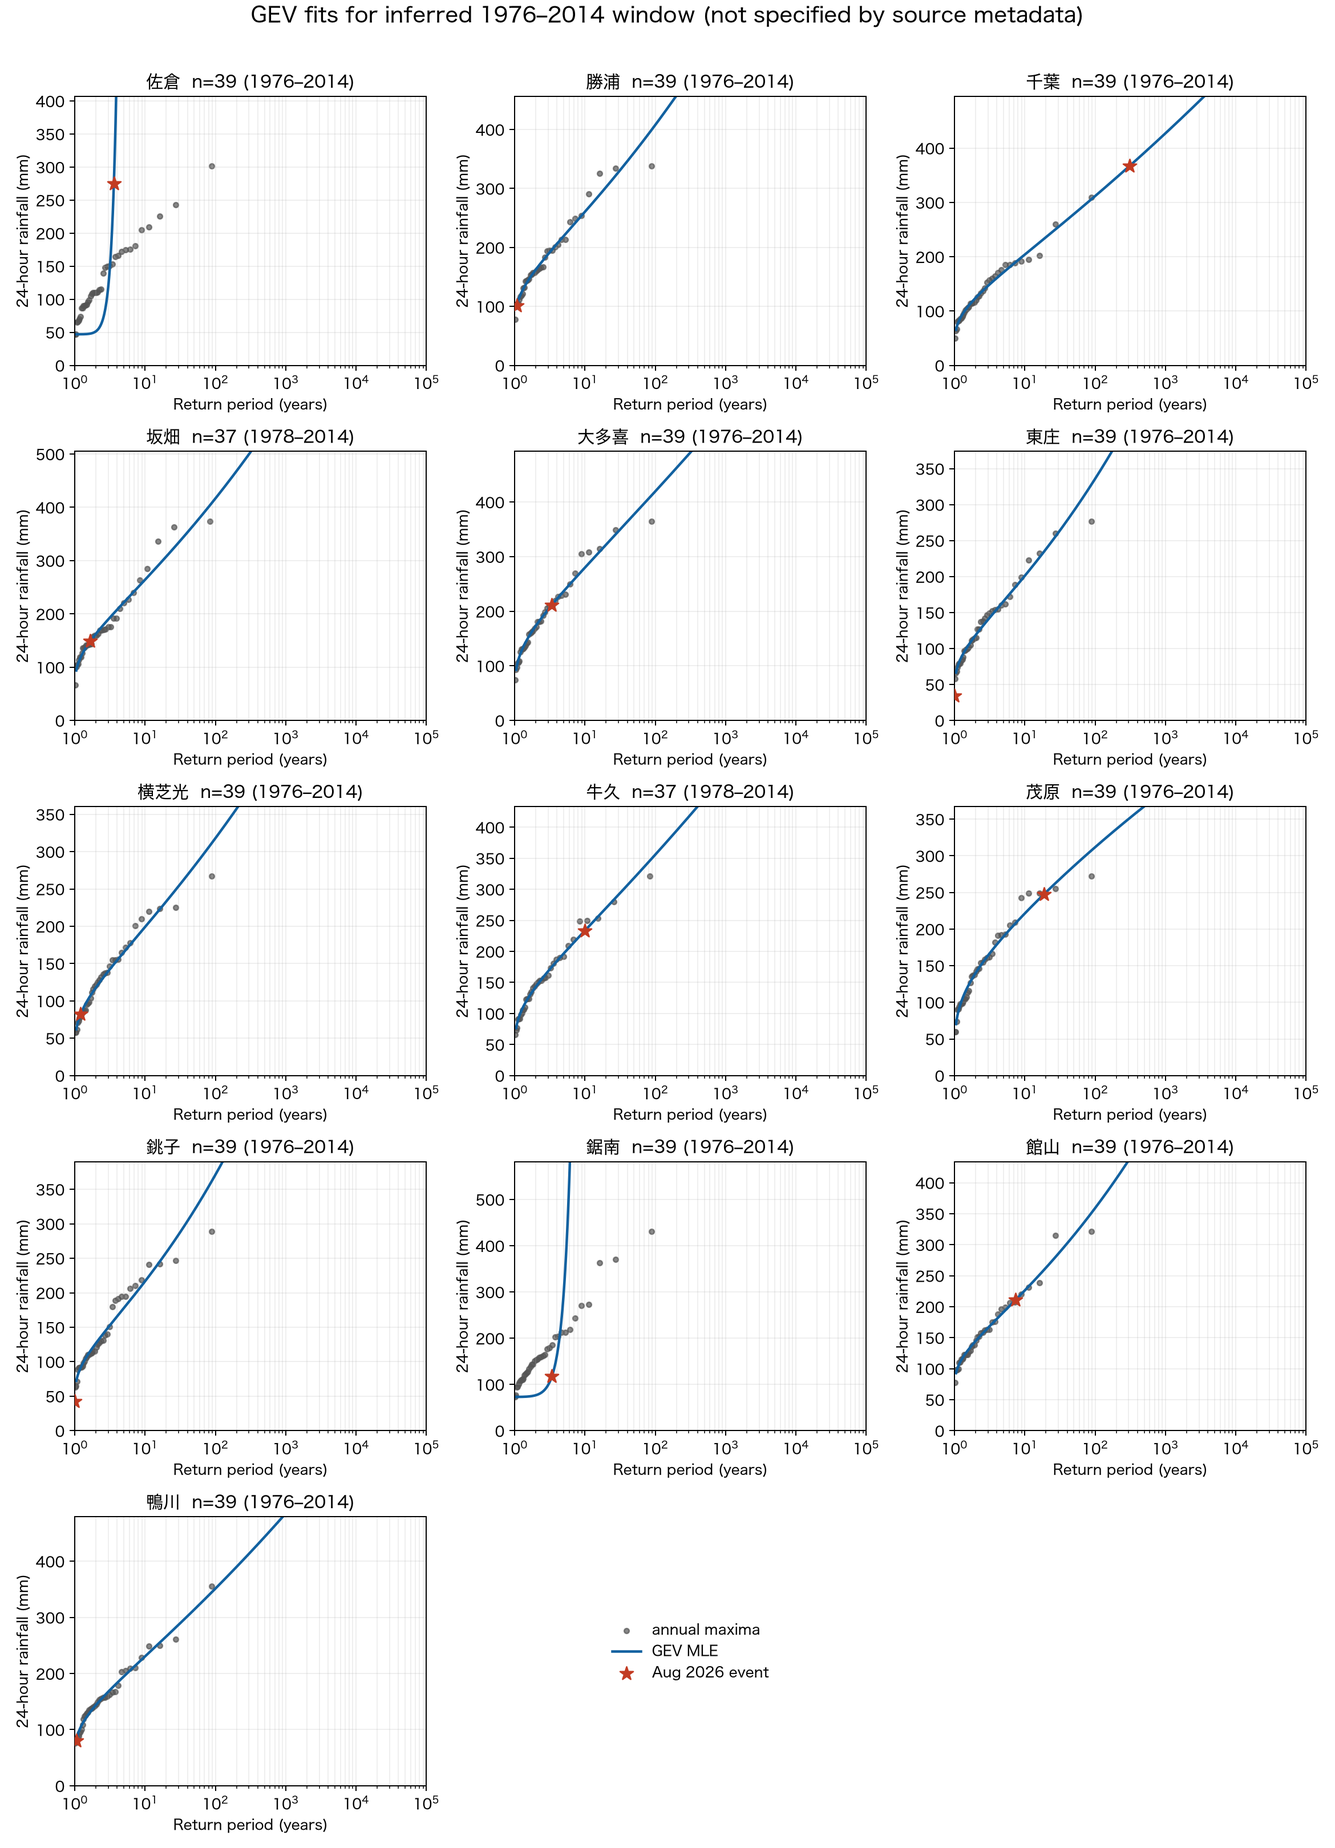
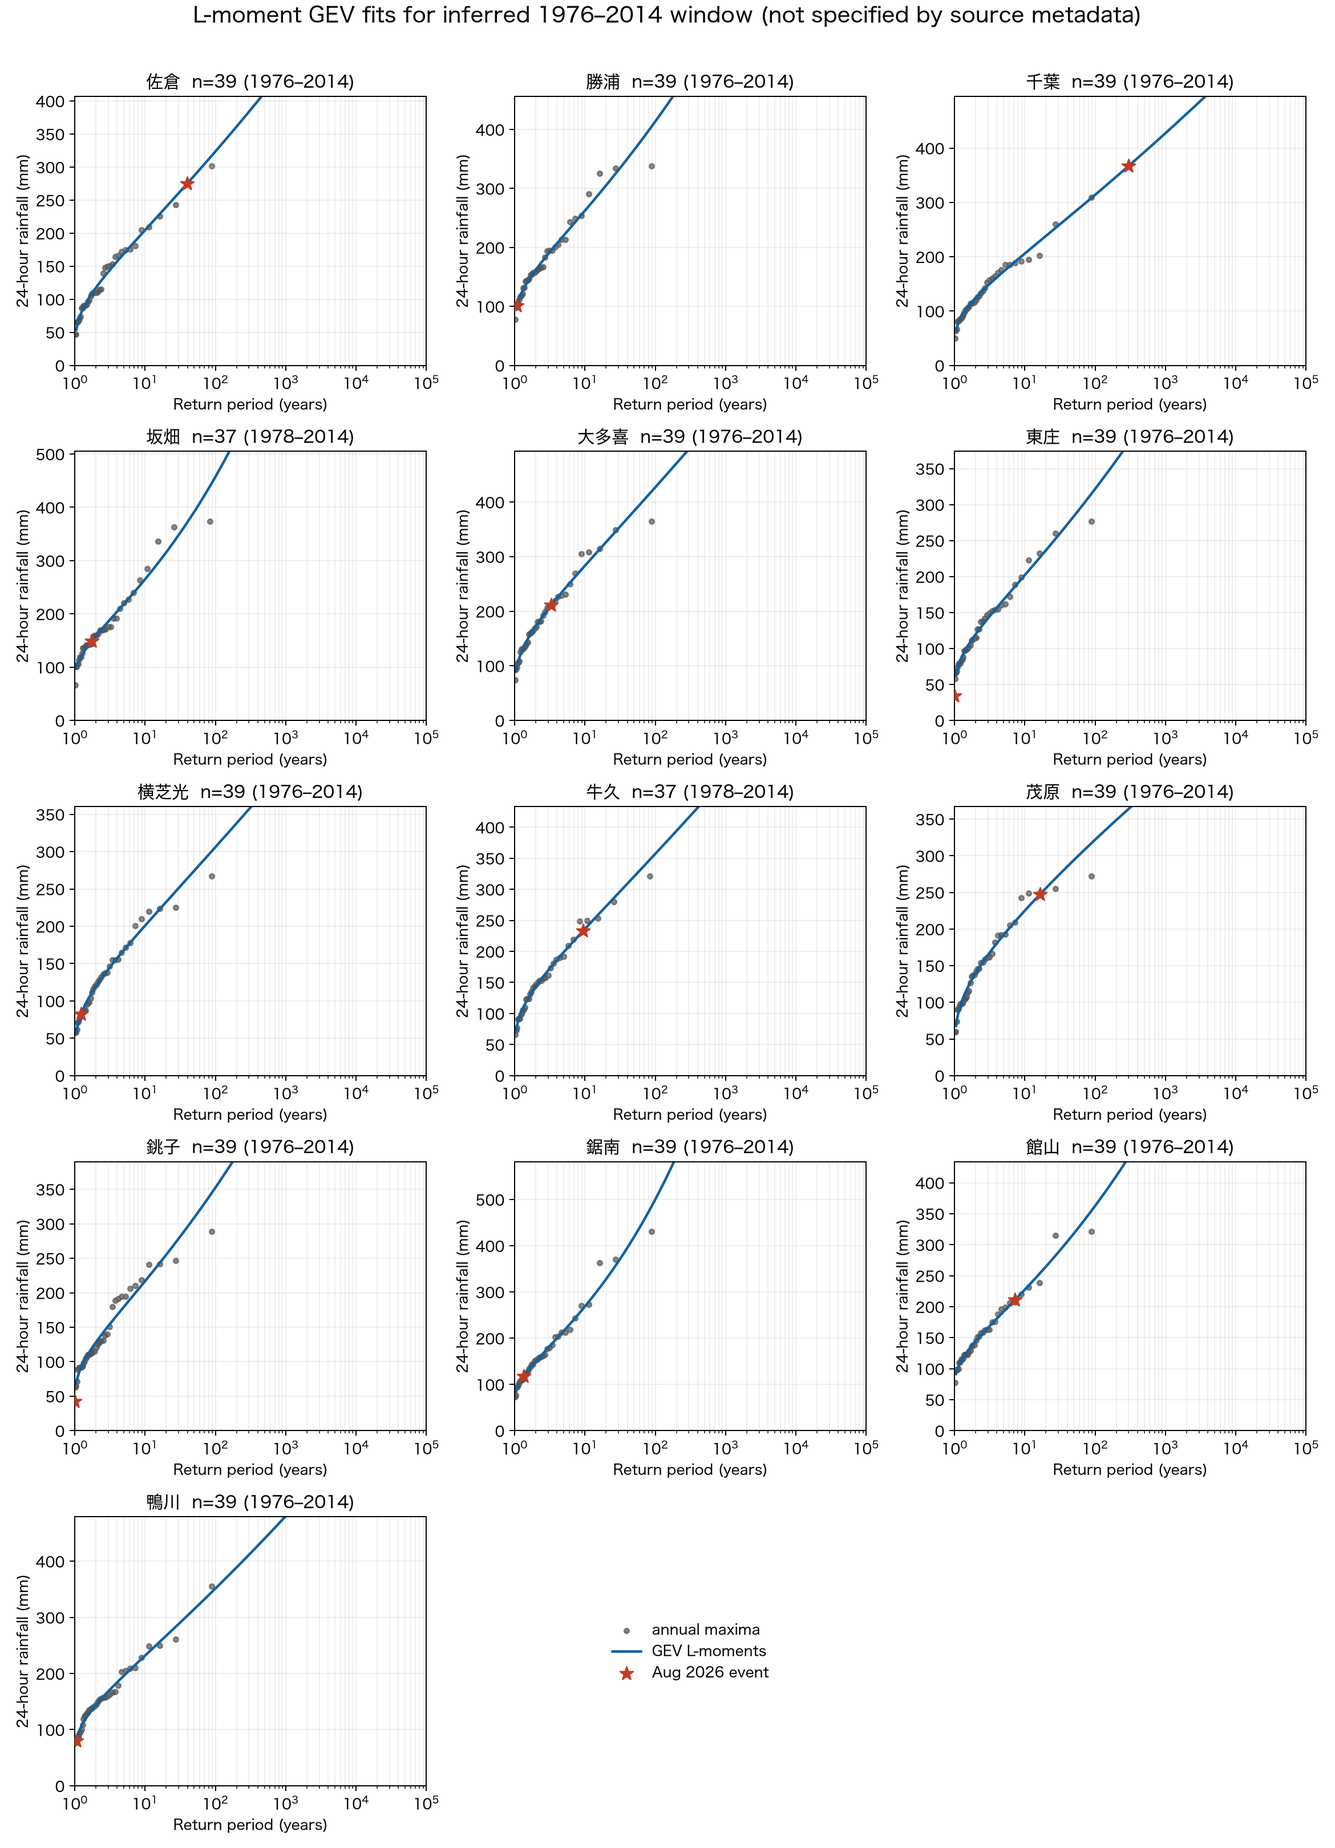
Use L-moments for GEV estimation

diff --git a/src/chiba_heavy_rain/analysis.py b/src/chiba_heavy_rain/analysis.py
@@ -9,7 +9,6 @@ from pathlib import Path
 import matplotlib.pyplot as plt
 import numpy as np
 import pandas as pd
-from scipy.stats import genextreme
 
 from .extremes import (
     bootstrap_return_period,
@@ -85,7 +84,7 @@ def _plot_return_levels(
     series: dict[str, pd.DataFrame],
     results: pd.DataFrame,
     output: Path,
-    title: str = "Observed annual maxima and stationary GEV fits",
+    title: str = "Observed annual maxima and stationary GEV L-moment fits",
 ) -> None:
     eligible = results.loc[results["eligible"]].sort_values("station")
     ncols = 3
@@ -100,7 +99,13 @@ def _plot_return_levels(
         ranks = np.arange(1, len(ordered) + 1)
         empirical_period = (len(ordered) + 0.12) / (len(ordered) - ranks + 0.44)
         ax.scatter(empirical_period, ordered, s=12, alpha=0.7, color="#555555", label="annual maxima")
-        ax.plot(periods, return_level(periods, fit), color="#1261a0", lw=1.8, label="GEV MLE")
+        ax.plot(
+            periods,
+            return_level(periods, fit),
+            color="#1261a0",
+            lw=1.8,
+            label="GEV L-moments",
+        )
         ax.scatter(
             [float(row["return_period_years"])],
             [float(row["event_24h_mm"])],
@@ -256,9 +261,6 @@ def run(raw_dir: Path, results_dir: Path, refresh: bool, bootstrap_samples: int)
                 samples=bootstrap_samples,
                 seed=20260813 + index,
             )
-            log_likelihood = float(
-                np.sum(genextreme.logpdf(values, fit.scipy_shape, loc=fit.location, scale=fit.scale))
-            )
             base.update(
                 {
                     "historical_max_mm": float(np.max(values)),
@@ -266,7 +268,6 @@ def run(raw_dir: Path, results_dir: Path, refresh: bool, bootstrap_samples: int)
                     "shape_xi": fit.shape_xi,
                     "location": fit.location,
                     "scale": fit.scale,
-                    "aic": 6 - 2 * log_likelihood,
                     "return_period_years": period,
                     "return_period_including_2026": return_period(
                         float(event["event_24h_mm"]), full_fit
@@ -290,7 +291,7 @@ def run(raw_dir: Path, results_dir: Path, refresh: bool, bootstrap_samples: int)
         period_series,
         period_results,
         results_dir / "historical_1976_2014_return_levels.png",
-        title="GEV fits for inferred 1976–2014 window (not specified by source metadata)",
+        title="L-moment GEV fits for inferred 1976–2014 window (not specified by source metadata)",
     )
     _plot_period_comparison(
         results, period_results, results_dir / "historical_period_comparison.png"
@@ -321,7 +322,7 @@ def render_existing(results_dir: Path, bootstrap_samples: int) -> pd.DataFrame:
         period_series,
         period_results,
         results_dir / "historical_1976_2014_return_levels.png",
-        title="GEV fits for inferred 1976–2014 window (not specified by source metadata)",
+        title="L-moment GEV fits for inferred 1976–2014 window (not specified by source metadata)",
     )
     _plot_period_comparison(
         results, period_results, results_dir / "historical_period_comparison.png"
@@ -382,7 +383,7 @@ def _write_report(
 
 ## 結論
 
-気象庁の千葉県内地上観測のうち、JMAの統計切断表示後の同一系列が40年以上あり、利用可能な年最大24時間降水量を40年分以上持つ地点を対象に、定常GEV分布を最尤推定した。2026年8月13～15日の観測最大24時間雨量を、事象から独立な2025年までの分布に照らした主解析では、最大の点推定は **{max_row['station']}の{_format_period(float(max_row['return_period_years']))}** だった。1万年を超えた地点は **{extreme_count}地点** である。
+気象庁の千葉県内地上観測のうち、JMAの統計切断表示後の同一系列が40年以上あり、利用可能な年最大24時間降水量を40年分以上持つ地点を対象に、標本Lモーメント（PWM）で定常GEV分布を推定した。2026年8月13～15日の観測最大24時間雨量を、事象から独立な2025年までの分布に照らした主解析では、最大の点推定は **{max_row['station']}の{_format_period(float(max_row['return_period_years']))}** だった。1万年を超えた地点は **{extreme_count}地点** である。
 
 ただし、記事の574.2 mmは千葉市緑区～市原市東部の「解析雨量」（格子値）であり、地上観測所の値ではない。今回の地上観測解析は、その574.2 mm自体の確率年を直接検証するものではなく、同じ豪雨を既存観測所で捉えた場合の局地ごとの頻度を示す。両者の空間代表性の違いを無視した一対一比較はできない。
 
@@ -422,7 +423,7 @@ def _write_report(
 
 - 出典は気象庁「過去の気象データ検索」の年ごとの値（詳細・N時間降水量）と2026年8月の日ごとの値。取得URLとSHA-256は `data/raw/manifest.json` に保存した。
 - 気象庁HTMLの `data_2t_*` 表示を統計切断として扱い、その後の最新系列が40年以上かつ利用可能な年最大値40個以上の地点を適格とした。資料不足値 `]` は除外したが、それ自体は統計切断とはみなしていない。依頼に従い測器・観測方法の変更補正は行っていない。
-- GEVの形状母数は通常の記法 ξ（SciPyの `genextreme` の形状母数とは符号が逆）。最尤推定を用いた。
+- GEV母数は標本の確率重み付きモーメントからL1、L2、L-skewnessを計算し、理論L-skewnessを数値的に逆算して推定した。形状母数は通常の記法 ξ（SciPyの `genextreme` の形状母数とは符号が逆）。
 - 主解析は今回事象を分布推定から除外し、推定対象と評価対象を分離した。感度分析では今回値を1年追加した。
 - 再現期間は `T = 1 / (1 - F(x))`。これは「T年ごとに規則的に起きる」の意味ではなく、定常性を仮定した年超過確率の逆数である。
 

diff --git a/src/chiba_heavy_rain/extremes.py b/src/chiba_heavy_rain/extremes.py
@@ -5,6 +5,8 @@ from __future__ import annotations
 from dataclasses import dataclass
 
 import numpy as np
+from scipy.optimize import brentq
+from scipy.special import gamma
 from scipy.stats import genextreme
 
 
@@ -21,13 +23,56 @@ class GEVFit:
 
 
 def fit_gev(values: np.ndarray) -> GEVFit:
+    """Estimate stationary GEV parameters with sample L-moments.
+
+    Probability-weighted moments are converted to L1, L2, and L-skewness.
+    The GEV shape is obtained by numerically inverting the theoretical
+    L-skewness relation. This avoids the pathological unconstrained MLE shapes
+    that can occur in short annual-maximum records.
+    """
     x = np.asarray(values, dtype=float)
     if x.ndim != 1 or len(x) < 3 or not np.all(np.isfinite(x)):
         raise ValueError("GEV fit requires at least three finite one-dimensional values")
-    c, loc, scale = genextreme.fit(x)
-    if not np.isfinite(scale) or scale <= 0:
-        raise RuntimeError("Invalid GEV scale estimate")
-    return GEVFit(shape_xi=float(-c), location=float(loc), scale=float(scale))
+    ordered = np.sort(x)
+    n = len(ordered)
+    index = np.arange(n, dtype=float)
+    b0 = float(np.mean(ordered))
+    b1 = float(np.sum((index / (n - 1)) * ordered) / n)
+    b2 = float(
+        np.sum((index * (index - 1) / ((n - 1) * (n - 2))) * ordered) / n
+    )
+    l1 = b0
+    l2 = 2.0 * b1 - b0
+    l3 = 6.0 * b2 - 6.0 * b1 + b0
+    if not np.isfinite(l2) or l2 <= 0:
+        raise RuntimeError("GEV L-moment fit requires positive L2")
+    tau3 = l3 / l2
+    if not -1.0 < tau3 < 1.0:
+        raise RuntimeError(f"GEV L-skewness outside (-1, 1): {tau3}")
+
+    def theoretical_tau3(xi: float) -> float:
+        if abs(xi) < 1e-8:
+            return 2.0 * np.log(3.0) / np.log(2.0) - 3.0
+        numerator = np.expm1(xi * np.log(3.0))
+        denominator = np.expm1(xi * np.log(2.0))
+        return 2.0 * numerator / denominator - 3.0
+
+    shape_xi = float(brentq(lambda xi: theoretical_tau3(xi) - tau3, -10.0, 0.999999))
+    if abs(shape_xi) < 1e-7:
+        scale = float(l2 / np.log(2.0))
+        location = float(l1 - np.euler_gamma * scale)
+        shape_xi = 0.0
+    else:
+        gamma_term = float(gamma(1.0 - shape_xi))
+        scale = float(
+            l2
+            * shape_xi
+            / (gamma_term * np.expm1(shape_xi * np.log(2.0)))
+        )
+        location = float(l1 - scale * (gamma_term - 1.0) / shape_xi)
+    if not np.isfinite(scale) or scale <= 0 or not np.isfinite(location):
+        raise RuntimeError("Invalid GEV L-moment parameter estimate")
+    return GEVFit(shape_xi=shape_xi, location=location, scale=scale)
 
 
 def return_period(value: float, fit: GEVFit) -> float:
@@ -87,4 +132,3 @@ def bootstrap_return_period(
         "bootstrap_infinite": infinite,
         "bootstrap_failures": failures,
     }
-

diff --git a/tests/test_extremes.py b/tests/test_extremes.py
@@ -21,12 +21,13 @@ def test_scipy_shape_sign_conversion() -> None:
     assert np.isclose(return_level(np.array([100.0]), fit)[0], expected)
 
 
-def test_fit_gev_returns_valid_scale() -> None:
+def test_l_moment_fit_recovers_synthetic_gev_parameters() -> None:
     rng = np.random.default_rng(4)
-    values = genextreme.rvs(-0.1, loc=120, scale=25, size=80, random_state=rng)
+    values = genextreme.rvs(-0.1, loc=120, scale=25, size=100_000, random_state=rng)
     fit = fit_gev(values)
-    assert fit.scale > 0
-    assert 80 < fit.location < 160
+    assert np.isclose(fit.shape_xi, 0.1, atol=0.015)
+    assert np.isclose(fit.location, 120, atol=0.5)
+    assert np.isclose(fit.scale, 25, atol=0.5)
 
 
 def test_centered_1995_period_is_1976_through_2014_without_quality_filter() -> None:

diff --git a/results/report.md b/results/report.md
@@ -2,7 +2,7 @@
 
 ## 結論
 
-気象庁の千葉県内地上観測のうち、JMAの統計切断表示後の同一系列が40年以上あり、利用可能な年最大24時間降水量を40年分以上持つ地点を対象に、定常GEV分布を最尤推定した。2026年8月13～15日の観測最大24時間雨量を、事象から独立な2025年までの分布に照らした主解析では、最大の点推定は **千葉の431年** だった。1万年を超えた地点は **0地点** である。
+気象庁の千葉県内地上観測のうち、JMAの統計切断表示後の同一系列が40年以上あり、利用可能な年最大24時間降水量を40年分以上持つ地点を対象に、標本Lモーメント（PWM）で定常GEV分布を推定した。2026年8月13～15日の観測最大24時間雨量を、事象から独立な2025年までの分布に照らした主解析では、最大の点推定は **千葉の446年** だった。1万年を超えた地点は **0地点** である。
 
 ただし、記事の574.2 mmは千葉市緑区～市原市東部の「解析雨量」（格子値）であり、地上観測所の値ではない。今回の地上観測解析は、その574.2 mm自体の確率年を直接検証するものではなく、同じ豪雨を既存観測所で捉えた場合の局地ごとの頻度を示す。両者の空間代表性の違いを無視した一対一比較はできない。
 
@@ -12,19 +12,19 @@
 
 | 地点 | 学習期間 | 今回24h (mm) | 既往最大 (mm) | 確率年 | 95%ブートストラップ区間 | 2026含む |
 |---|---:|---:|---:|---:|---:|---:|
-| 千葉 | 1976–2025 (48年) | 367.0 | 309.0 | 431年 | 3.05年 – 上限なし | 119年 |
-| 佐倉 | 1976–2025 (47年) | 274.5 | 301.5 | 30.8年 | 2.39年 – 178年 | 25.2年 |
-| 茂原 | 1976–2025 (45年) | 247.5 | 392.0 | 12.5年 | 2.72年 – 39.7年 | 11.6年 |
-| 牛久 | 1981–2025 (42年) | 233.0 | 321.0 | 8.13年 | 2.22年 – 16.9年 | 7.83年 |
-| 館山 | 1976–2025 (48年) | 211.0 | 321.5 | 7.69年 | 2.64年 – 18.0年 | 7.42年 |
-| 大多喜 | 1977–2025 (45年) | 211.5 | 365.0 | 3.12年 | 1.99年 – 5.09年 | 3.08年 |
-| 坂畑 | 1979–2025 (43年) | 149.0 | 374.0 | 1.76年 | 1.44年 – 3.83年 | 1.77年 |
-| 鋸南 | 1976–2025 (42年) | 117.5 | 431.0 | 1.43年 | 1.23年 – 3.42年 | 1.44年 |
-| 横芝光 | 1976–2025 (43年) | 82.5 | 274.5 | 1.23年 | 1.11年 – 2.61年 | 1.24年 |
-| 勝浦 | 1976–2025 (49年) | 101.5 | 338.0 | 1.08年 | 1.00年 – 3.00年 | 1.08年 |
-| 鴨川 | 1977–2025 (47年) | 80.5 | 355.0 | 1.04年 | 1.01年 – 1.75年 | 1.04年 |
-| 銚子 | 1976–2025 (50年) | 42.5 | 289.0 | 1.00年 | 1.00年 – 1.03年 | 1.01年 |
-| 東庄 | 1979–2025 (42年) | 34.0 | 277.0 | 1.00年 | 1.00年 – 1.00年 | 1.00年 |
+| 千葉 | 1976–2025 (48年) | 367.0 | 309.0 | 446年 | 77.9年 – 上限なし | 115年 |
+| 佐倉 | 1976–2025 (47年) | 274.5 | 301.5 | 33.0年 | 17.7年 – 141年 | 27.5年 |
+| 茂原 | 1976–2025 (45年) | 247.5 | 392.0 | 13.5年 | 7.62年 – 46.3年 | 12.6年 |
+| 牛久 | 1981–2025 (42年) | 233.0 | 321.0 | 7.87年 | 4.72年 – 17.4年 | 7.50年 |
+| 館山 | 1976–2025 (48年) | 211.0 | 321.5 | 7.50年 | 4.68年 – 16.4年 | 7.20年 |
+| 大多喜 | 1977–2025 (45年) | 211.5 | 365.0 | 3.07年 | 2.14年 – 4.82年 | 3.04年 |
+| 坂畑 | 1979–2025 (43年) | 149.0 | 374.0 | 1.71年 | 1.39年 – 2.25年 | 1.72年 |
+| 鋸南 | 1976–2025 (42年) | 117.5 | 431.0 | 1.44年 | 1.23年 – 1.72年 | 1.45年 |
+| 横芝光 | 1976–2025 (43年) | 82.5 | 274.5 | 1.24年 | 1.12年 – 1.41年 | 1.25年 |
+| 勝浦 | 1976–2025 (49年) | 101.5 | 338.0 | 1.09年 | 1.02年 – 1.16年 | 1.09年 |
+| 鴨川 | 1977–2025 (47年) | 80.5 | 355.0 | 1.04年 | 1.00年 – 1.10年 | 1.05年 |
+| 銚子 | 1976–2025 (50年) | 42.5 | 289.0 | 1.00年 | 1.00年 – 1.02年 | 1.01年 |
+| 東庄 | 1979–2025 (42年) | 34.0 | 277.0 | 1.00年 | 1.00年 – 1.01年 | 1.00年 |
 
 対象外：香取（連続26年）、我孫子（連続15年）、成田（連続22年）、木更津（連続18年）、船橋（連続26年）
 
@@ -38,20 +38,20 @@
 
 元データdescriptionを確認すると、NASA NEX-GDDP-CMIP6はhistoricalが1950～2014年、SSPが2015～2100年である。NIES2020で「39年」と明記されるのは極値統計の標本期間ではなく、CDFDMバイアス補正の基準期間 **1980～2018年** で、その内訳はhistorical runの1980～2014年とSSP585 runの2015～2018年である。この1980～2018年を記事の「1995年中心の過去気候期間」と読み替える根拠はないため、本図には採用していない。
 
-上記の推定期間に固定し、地点は主解析の13地点から再選別せず、数値が掲載されている年最大24時間雨量を品質記号 `]` も含めて使用した。したがって牛久・坂畑は観測掲載開始の関係で37値、その他は最大39値である。この期間だけで推定した最大の点推定は **千葉の308年** だった。
+上記の推定期間に固定し、地点は主解析の13地点から再選別せず、数値が掲載されている年最大24時間雨量を品質記号 `]` も含めて使用した。したがって牛久・坂畑は観測掲載開始の関係で37値、その他は最大39値である。この期間だけで推定した最大の点推定は **千葉の299年** だった。
 
 | 地点 | 使用期間 | 年最大値数 | 今回24h (mm) | 期間内最大 (mm) | 確率年 |
 |---|---:|---:|---:|---:|---:|
-| 千葉 | 1976–2014 | 39 | 367.0 | 309.0 | 308年 |
-| 茂原 | 1976–2014 | 39 | 247.5 | 272.0 | 18.7年 |
-| 牛久 | 1978–2014 | 37 | 233.0 | 321.0 | 9.89年 |
-| 館山 | 1976–2014 | 39 | 211.0 | 321.5 | 7.40年 |
-| 佐倉 | 1976–2014 | 39 | 274.5 | 301.5 | 3.59年 |
-| 鋸南 | 1976–2014 | 39 | 117.5 | 431.0 | 3.39年 |
-| 大多喜 | 1976–2014 | 39 | 211.5 | 365.0 | 3.38年 |
-| 坂畑 | 1978–2014 | 37 | 149.0 | 374.0 | 1.67年 |
-| 横芝光 | 1976–2014 | 39 | 82.5 | 267.0 | 1.21年 |
-| 勝浦 | 1976–2014 | 39 | 101.5 | 338.0 | 1.07年 |
+| 千葉 | 1976–2014 | 39 | 367.0 | 309.0 | 299年 |
+| 佐倉 | 1976–2014 | 39 | 274.5 | 301.5 | 39.4年 |
+| 茂原 | 1976–2014 | 39 | 247.5 | 272.0 | 16.5年 |
+| 牛久 | 1978–2014 | 37 | 233.0 | 321.0 | 9.40年 |
+| 館山 | 1976–2014 | 39 | 211.0 | 321.5 | 7.26年 |
+| 大多喜 | 1976–2014 | 39 | 211.5 | 365.0 | 3.32年 |
+| 坂畑 | 1978–2014 | 37 | 149.0 | 374.0 | 1.73年 |
+| 鋸南 | 1976–2014 | 39 | 117.5 | 431.0 | 1.35年 |
+| 横芝光 | 1976–2014 | 39 | 82.5 | 267.0 | 1.23年 |
+| 勝浦 | 1976–2014 | 39 | 101.5 | 338.0 | 1.08年 |
 | 鴨川 | 1976–2014 | 39 | 80.5 | 355.0 | 1.05年 |
 | 銚子 | 1976–2014 | 39 | 42.5 | 289.0 | 1.00年 |
 | 東庄 | 1976–2014 | 39 | 34.0 | 277.0 | 1.00年 |
@@ -66,7 +66,7 @@
 
 - 出典は気象庁「過去の気象データ検索」の年ごとの値（詳細・N時間降水量）と2026年8月の日ごとの値。取得URLとSHA-256は `data/raw/manifest.json` に保存した。
 - 気象庁HTMLの `data_2t_*` 表示を統計切断として扱い、その後の最新系列が40年以上かつ利用可能な年最大値40個以上の地点を適格とした。資料不足値 `]` は除外したが、それ自体は統計切断とはみなしていない。依頼に従い測器・観測方法の変更補正は行っていない。
-- GEVの形状母数は通常の記法 ξ（SciPyの `genextreme` の形状母数とは符号が逆）。最尤推定を用いた。
+- GEV母数は標本の確率重み付きモーメントからL1、L2、L-skewnessを計算し、理論L-skewnessを数値的に逆算して推定した。形状母数は通常の記法 ξ（SciPyの `genextreme` の形状母数とは符号が逆）。
 - 主解析は今回事象を分布推定から除外し、推定対象と評価対象を分離した。感度分析では今回値を1年追加した。
 - 再現期間は `T = 1 / (1 - F(x))`。これは「T年ごとに規則的に起きる」の意味ではなく、定常性を仮定した年超過確率の逆数である。
 

diff --git a/README.md b/README.md
@@ -2,7 +2,7 @@
 
 This repository estimates station-wise return periods for the 13–15 August 2026
 Chiba heavy-rain event from JMA ground observations. It uses annual maximum rolling
-24-hour rainfall, a stationary GEV distribution fitted by maximum likelihood, and
+24-hour rainfall, a stationary GEV distribution fitted by sample L-moments, and
 station-wise nonparametric bootstrap intervals.
 
 The primary fit uses observations only through 2025, so the event being evaluated is
